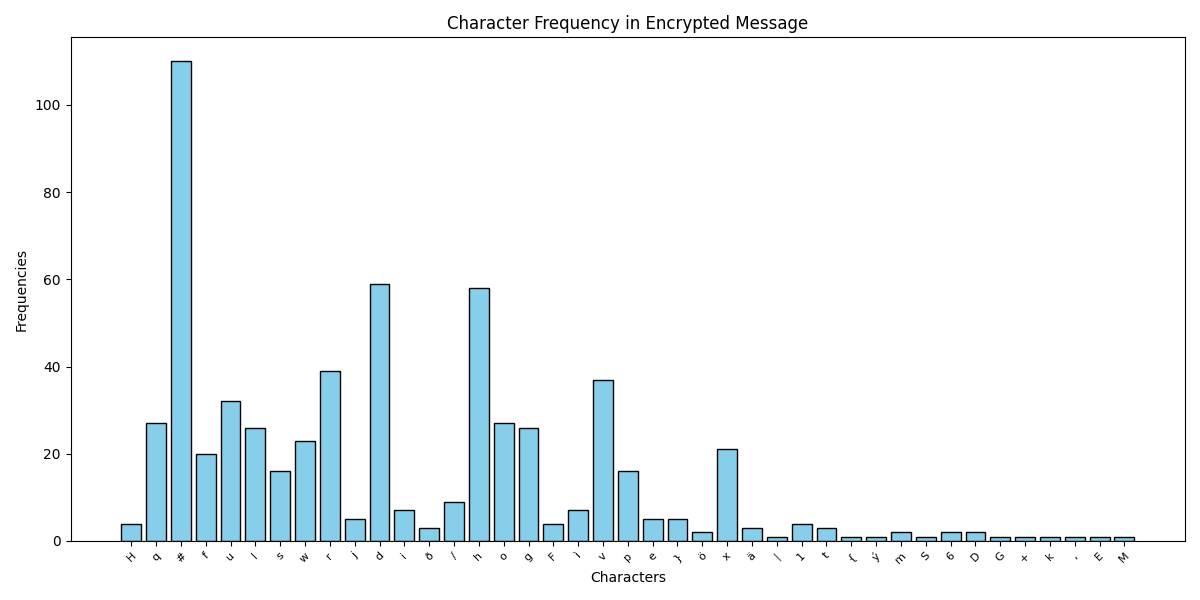
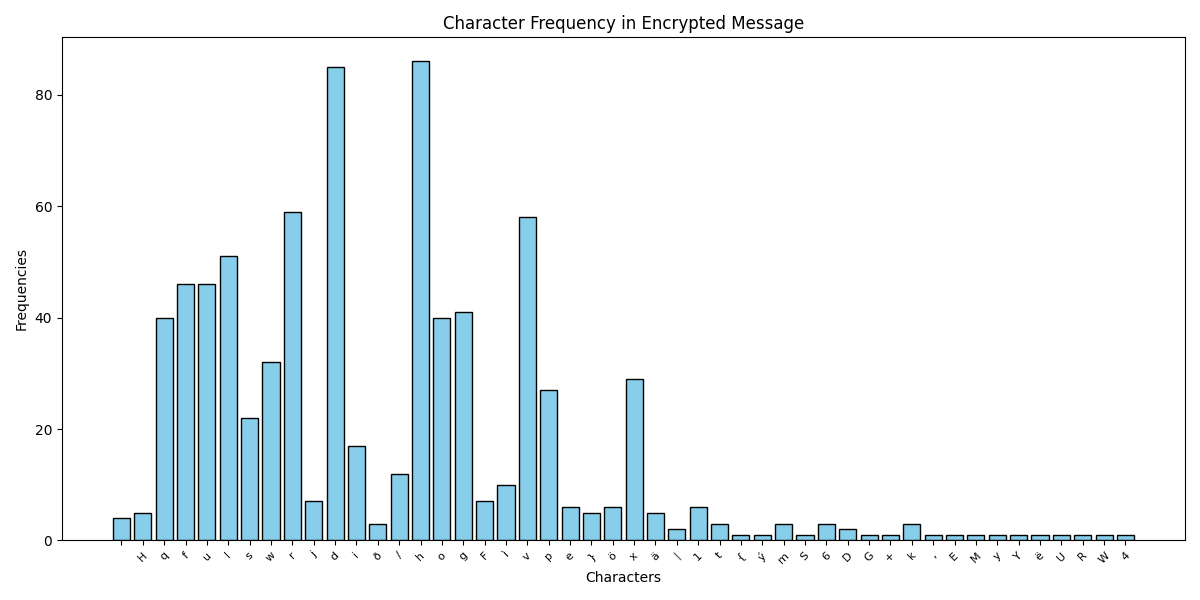
cezar done

diff --git a/cezer/cezar.py b/cezer/cezar.py
@@ -1,6 +1,17 @@
 import matplotlib.pyplot as plt
 from collections import Counter
 
+# Spanish letter probabilities
+# https://www.sttmedia.com/characterfrequency-spanish
+spanish_frequencies = {
+    'A': 11.72, 'Á': 0.44, 'B': 1.49, 'C': 3.87, 'D': 4.67, 'E': 13.72, 
+    'É': 0.36, 'F': 0.69, 'G': 1.00, 'H': 1.18, 'I': 5.28, 'Í': 0.70, 
+    'J': 0.52, 'K': 0.11, 'L': 5.24, 'M': 3.08, 'N': 6.83, 'Ñ': 0.17, 
+    'O': 8.44, 'Ó': 0.76, 'P': 2.89, 'Q': 1.11, 'R': 6.41, 'S': 7.20, 
+    'T': 4.60, 'U': 4.55, 'Ü': 0.02, 'Ú': 0.12, 'V': 1.05, 'W': 0.04, 
+    'X': 0.14, 'Y': 1.09, 'Z': 0.47
+}
+
 def caesar_cipher(text, shift, encrypt=True):
     """
     Apply Caesar Cipher to the given text.
@@ -27,12 +38,20 @@ def caesar_cipher(text, shift, encrypt=True):
 
 def frequency_table(text):
     """
-    Generate a frequency table for characters in the given text.
-
+    Generate a frequency table for characters in the given text,
+    removing the most frequent character (likely a space).
+    
     :param text: The input string
-    :return: A dictionary of character frequencies
+    :return: A dictionary of character frequencies with the most frequent character removed
     """
-    return Counter(text)
+    freq = Counter(text)
+    # Identify the most frequent character
+    most_frequent = freq.most_common(1)[0][0]  # Get the most common  (its space my spanish_frequencies dosnt have it)
+    # Remove the most frequent character
+    if most_frequent in freq:
+        del freq[most_frequent]
+    return freq
+
 
 def plot_histogram(freq_table, title):
     """
@@ -55,13 +74,12 @@ def plot_histogram(freq_table, title):
     plt.savefig(title)
 
 # Input message
-message = ("En criptografía, el cifrado César, también conocido como cifrado por desplazamiento, "
-           "código de César o desplazamiento de César, es una de las técnicas de cifrado más simples "
-           "y más usadas. Es un tipo de cifrado por sustitución en el que una letra en el texto original "
-           "es reemplazada por otra letra que se encuentra un número fijo de posiciones más adelante en el alfabeto. "
-           "Por ejemplo, con un desplazamiento de 3, la A sería sustituida por la D (situada 3 lugares a la derecha de la A), "
-           "la B sería reemplazada por la E, etc. Este método debe su nombre a Julio César, que lo usaba para comunicarse "
-           "con sus generales.")
+message = '''
+En criptografía, el cifrado César, también conocido como cifrado por desplazamiento, código de César o desplazamiento de César, es una de las técnicas de cifrado más simples y más usadas. Es un tipo de cifrado por sustitución en el que una letra en el texto original es reemplazada por otra letra que se encuentra un número fijo de posiciones más adelante en el alfabeto. Por ejemplo, con un desplazamiento de 3, la A sería sustituida por la D (situada 3 lugares a la derecha de la A), la B sería reemplazada por la E, etc. Este método debe su nombre a Julio César, que lo usaba para comunicarse con sus generales.
+
+El cifrado César muchas veces puede formar parte de sistemas más complejos de codificación, como el cifrado Vigenère, e incluso tiene aplicación en el sistema ROT13. Como todos los cifrados de sustitución alfabética simple, el cifrado César se descifra con facilidad y en la práctica no ofrece mucha seguridad en la comunicación. 
+'''
+
 
 # Caesar Cipher shift value
 shift_value = 3
@@ -94,5 +112,12 @@ print("\nDecrypted Message:")
 print(decrypted)
 
 # Plot Histograms
-plot_histogram(original_freq, "Character Frequency in Original Message")
 plot_histogram(encrypted_freq, "Character Frequency in Encrypted Message")
+plot_histogram(spanish_frequencies, "Spanish Letter Probabilities")
+
+'''
+Result images shows shitft 2 most freq letters in spanish are E and A in histogram of message when we get rid of space are D and H so:
+D-A=3
+H-E=3
+so shift is 3
+'''
